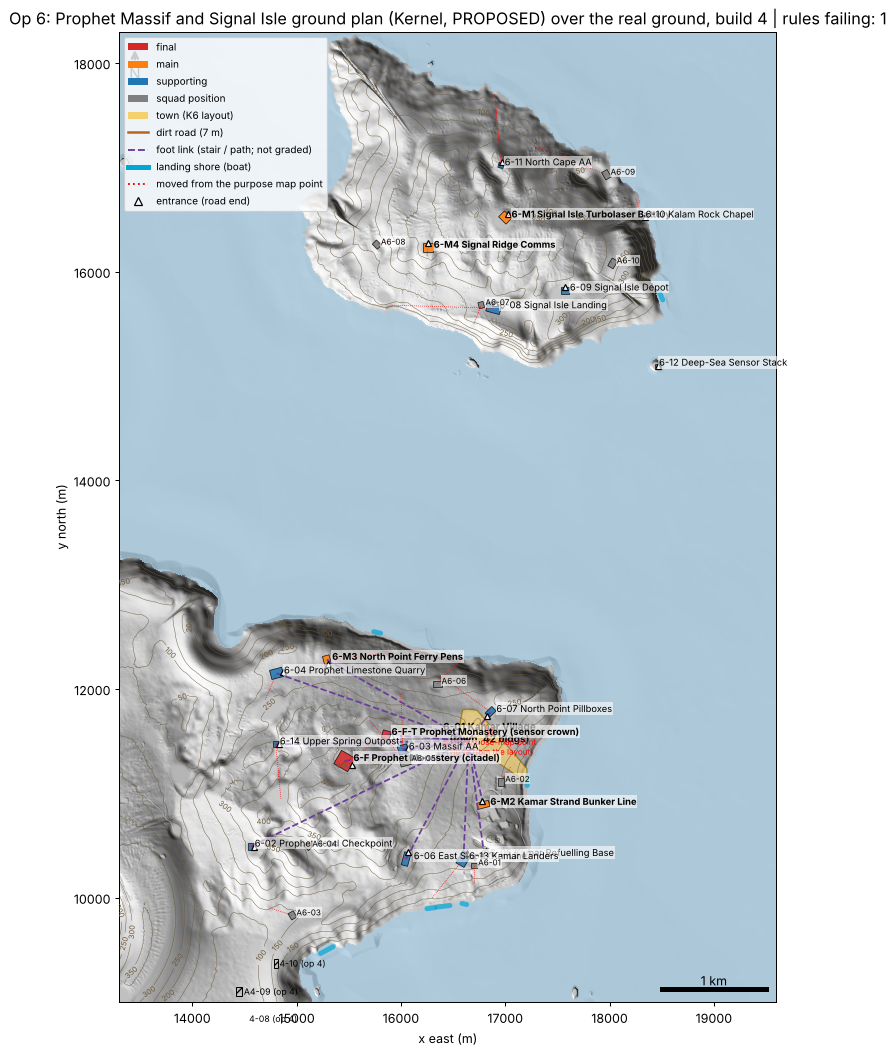
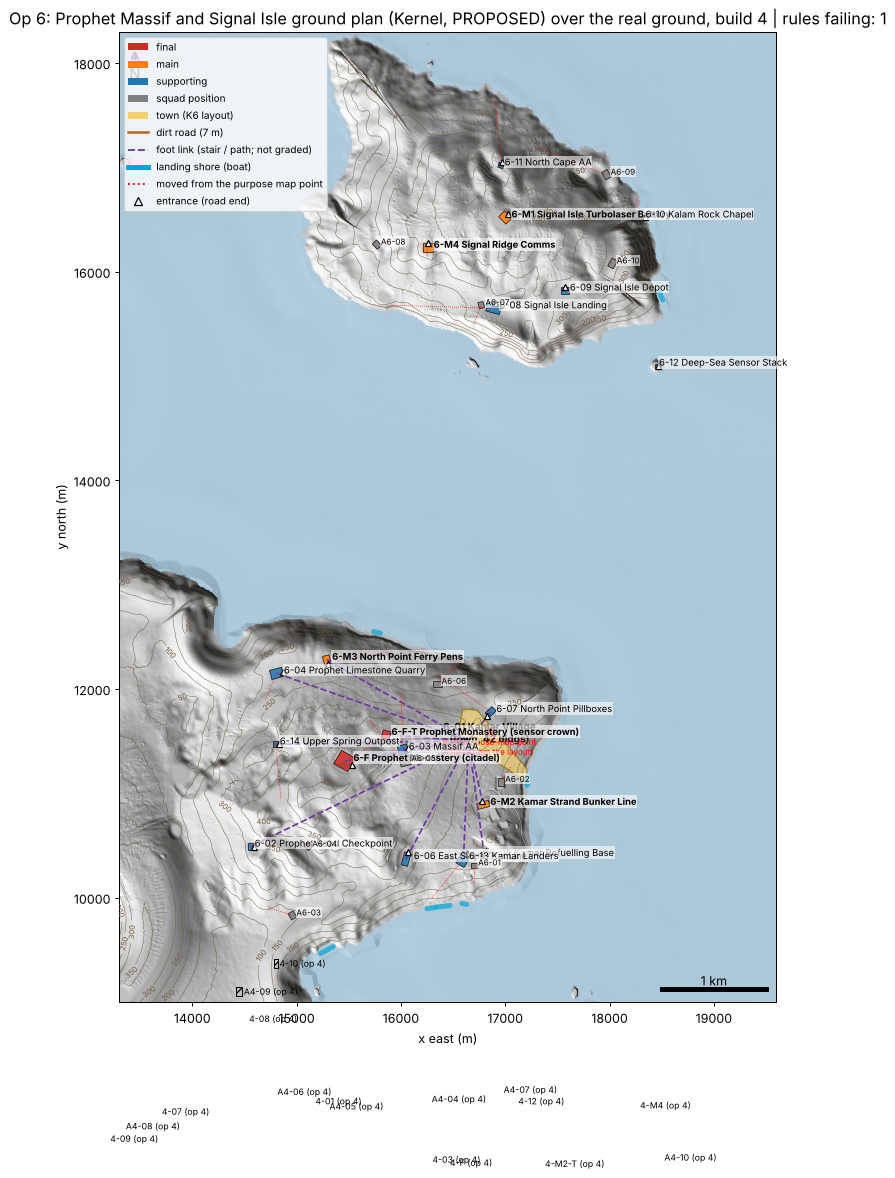
Planner: a net's link to another op's net is tried separately and its failing stretch reported; op 6's net grows from the monastery (re-pass in progress)
Claude-Session: https://claude.ai/code/session_01XXJrtVkEmXbqQpnNmwv2Qg

Changed region(s): [[0.0603, 0.3943, 0.8749, 1.0], [0.0, 0.0, 0.9955, 0.364], [0.0905, 0.2123, 0.1207, 0.273]]

diff --git a/S-5 Terrains/kernel_11nov_c/job1/tools/run_op.py b/S-5 Terrains/kernel_11nov_c/job1/tools/run_op.py
@@ -387,6 +387,46 @@ for phase in (0, 1):
       pending = failed
     for sid in pending: log.append(f"road for {sid}: NO ROUTE found to the {net} net")
 
+# ---- the link from this op's net down to another op's (LINK_EXTERNAL): a road if one holds the rules, else the best try with its failing stretch
+links_out = []
+for net in getattr(op, "LINK_EXTERNAL", ()):
+    inner = [n_ for n_ in nodes.get(net, []) if not str(n_[3]).startswith(("op", "built:")) and not str(n_[3]).endswith(")")]
+    outer = [n_ for r_ in EXT_ROADS for n_ in own_nodes(r_, r_["id"])] if True else []
+    for r_ in EXT_ROADS: ROADS_BY_ID[r_["id"]] = r_
+    pairs = sorted(((math.dist(a[:2], b[:2]), a, b) for a in inner[::2] for b in outer[::2]), key=lambda t: t[0])
+    tried, best, done = [], None, None
+    for d_, a, b in pairs:
+        if any(math.dist(a[:2], q[0][:2]) < 150 and math.dist(b[:2], q[1][:2]) < 150 for q in tried): continue
+        tried.append((a, b))
+        if len(tried) > 8: break
+        rl = []
+        for nd in (a, b):
+            if len(nd) > 4:
+                r_own = ROADS_BY_ID[nd[4]]; zl = P.relevel(r_own, nd[5], half=25.0) or P.relevel(r_own, nd[5], half=15.0)
+                if zl is None: break
+                rl.append((r_own, r_own["points_z"])); P.uncommit(r_own); r_own["points_z"] = zl; P.recommit(r_own)
+        else:
+            r = P.route((a[0], a[1]), (b[0], b[1]), za=a[2], zb=b[2], name=f"link {a[3]}-{b[3]}", kind="dirt", links=[a[3], b[3]], margin=1500, own_ids=(a[3], b[3]))
+            ok = r is not None and r["max_cut_fill_m"] <= 4.0 and r["max_grade_pct"] <= 14.05 and r["clash_points"] == 0 and r["in_water_points"] == 0 and r["junction_step_max_m"] <= JMAX and house_clear(r) >= 3.0
+            if ok:
+                P.commit_road(r); ROADS_BY_ID[r["id"]] = r; done = r
+                for r_own, _ in rl: r_own.setdefault("landings_for_joins", []).append(dict(for_road=r["id"]))
+                break
+            if r is not None and (best is None or r["max_cut_fill_m"] < best["max_cut_fill_m"]): best = r
+        for r_own, z0 in rl: P.uncommit(r_own); r_own["points_z"] = z0; P.recommit(r_own)
+    if done: links_out.append(dict(net=net, status="road", road=done["id"], length_m=done["length_m"], max_cut_fill_m=done["max_cut_fill_m"]))
+    elif best is not None:            # the best try, and where it breaks the 4 m rule: what a cutting, a retaining wall or a ramp must take
+        J_, I_, Z_ = P.band_points(best); over = np.abs(Z_ - P.H[J_, I_]) > 4.0
+        X_ = np.array(best["points"]); s_ = np.r_[0, np.cumsum(np.hypot(*np.diff(X_, axis=0).T))]
+        from scipy.spatial import cKDTree as _K
+        kk = _K(X_).query(np.c_[I_[over] * 5.0, J_[over] * 5.0])[1] if over.any() else np.array([], int)
+        stretch = [round(float(s_[kk.min()])), round(float(s_[kk.max()]))] if len(kk) else None
+        links_out.append(dict(net=net, status="no road within the rules", best_try=dict(points=best["points"], points_z=best["points_z"], length_m=best["length_m"], max_cut_fill_m=best["max_cut_fill_m"],
+                              grid_points_over_4_m=int(over.sum()), over_4_m_between_m=stretch, worst_cut_or_fill_m=round(float(np.abs(Z_ - P.H[J_, I_]).max()), 2),
+                              needs="a cutting or retaining wall taking the band to within 4 m over that stretch, or your ramp there"), links=best["links"]))
+        trunk_breaks.append(dict(at=[float(X_[kk[len(kk) // 2], 0]), float(X_[kk[len(kk) // 2], 1])] if len(kk) else best["points"][0], z=0.0,
+                                 label=f"link to the existing net: best road breaks 4 m ({best['max_cut_fill_m']} m) over {stretch[1] - stretch[0] if stretch else 0} m"))
+
 # ---- re-measure every road of this op on the final ground (landings for joins changed some levels)
 for r in P.roads:
     P.uncommit(r); P.check_road(r); P.recommit(r)
@@ -558,7 +598,8 @@ for line_ in open(os.path.join(world.PACK, "design", "PURPOSE_MAP.md"), encoding
         APPR[cells[0]] = cells[-1]
 veh = [x for x in list(SITE) + list(towns) if "vehicles" in APPR.get(x.split("-N")[0].split("-T")[0], "")]
 veh_missing = [x for x in veh if x not in {y for r in P.roads for y in r["links"]}]
-C["3 roads: one connected net per island"] = dict(status="PASS" if all(len(v["pieces"]) <= 1 for v in conn.values()) and not veh_missing else "FAIL", nets=conn,
+C["3 roads: one connected net per island"] = dict(status="PASS" if all(len(v["pieces"]) <= 1 for v in conn.values()) and not veh_missing and all(l_["status"] == "road" for l_ in links_out) else "FAIL", nets=conn,
+    links_to_existing_net=[{k: v for k, v in l_.items() if k != "best_try"} | ({"best_try": {k: v for k, v in l_["best_try"].items() if k not in ("points", "points_z")}} if "best_try" in l_ else {}) for l_ in links_out],
     vehicle_sites_not_on_the_net=veh_missing,
     reading="the rule binds sites with a vehicle approach; where the purpose map gives no site one, every site the net reaches is on ONE net per island and the rest are foot / boat / air (their foot links are in the plan)")
 C["3 roads: no straight run over 150 m (within 1 m of the chord)"] = dict(status="PASS" if not st or st["straight_max_m"] <= 150 else "FAIL", worst=[st["id"], st["straight_max_m"]] if st else None)
@@ -588,7 +629,7 @@ plan = dict(op=int(N), name=getattr(op, "NAME", ""), frame="map metres, x east, 
             sites=[{k: v for k, v in s.items() if not k.startswith("_")} for s in pads if not s["id"].startswith("A")],
             squad_positions=[{k: v for k, v in s.items() if not k.startswith("_")} for s in pads if s["id"].startswith("A")],
             towns=[{k: v for k, v in t.items() if k not in ("hull", "houses")} | {"hull": [list(map(lambda q: round(q, 1), p)) for p in t["hull"].exterior.coords]} for t in towns.values()],
-            roads=P.roads, ramps_needed=ramps, shore_links=shore_links,
+            roads=P.roads, ramps_needed=ramps, shore_links=shore_links, links_to_existing_net=links_out,
             edits_to_other_ops_roads=[dict(road=r_["id"], landings=r_["landings_for_joins"], points_z=r_["points_z"]) for r_ in EXT_ROADS if r_.get("landings_for_joins")], external_roads_joined=sorted({x for r in P.roads for x in r["links"] if x.startswith(("op", "built:")) and ":" in x}), trunk_breaks=trunk_breaks, foot_links=foot, approaches=getattr(op, "APPROACHES", {}), shores=shores, gate=getattr(op, "GATE", None), moves=[dict(id=s["id"], from_xy=list(s.get("design_xy", s["rough"])), to_xy=[s["x"], s["y"]], moved_m=s["moved_m"]) for s in pads if s.get("moved_m", 0) > 0 and not s["id"].startswith("A")],
             log=log)
 json.dump(plan, open(os.path.join(OUT, f"op{N}_plan.json"), "w"), indent=1, default=lambda o: o.tolist() if hasattr(o, "tolist") else float(o))

diff --git a/S-5 Terrains/kernel_11nov_c/job1/tools/op6.py b/S-5 Terrains/kernel_11nov_c/job1/tools/op6.py
@@ -38,8 +38,9 @@ TOWNS = {"6-01": dict(name="Kamar Village", layout="../../../kernel_10nov_v1/K6_
 # re-pass: op 4 v2's 4-10 has no road, so this op joins op 4 v2's actual road net (its pads here are blocked, its roads joinable)
 EXTERNAL_PLANS = ["../out_op4_v2/op4_plan.json"]
 # the net climbs the south slope to the east upland first (the west side is cut by ravines), then spreads over the upland and back west
-NETS = {"Ember Crescent": ["6-06", "6-13", "6-05", "6-M2", "6-01", "6-03", "6-F-T", "6-F", "6-M3", "6-07", "6-04", "6-02", "6-14"]}
-ROOT = {"Ember Crescent": "EXTERNAL_ROADS"}
+NETS = {"Ember Crescent": ["6-F-T", "6-03", "6-01", "6-M3", "6-07", "6-04", "6-14", "6-02", "6-06", "6-13", "6-05", "6-M2"]}
+ROOT = {"Ember Crescent": "6-F"}          # re-pass: the massif's own net grows from the monastery; its link down to op 4's net is LINK_EXTERNAL
+LINK_EXTERNAL = ("Ember Crescent",)
 
 SQUADS = [
     ("A6-01", "CIS Heavy Gun Position with GPs (D)", 30.1, 25.4, 16700, 10150, 300, "the south end of Kamar Strand and the landers"),
